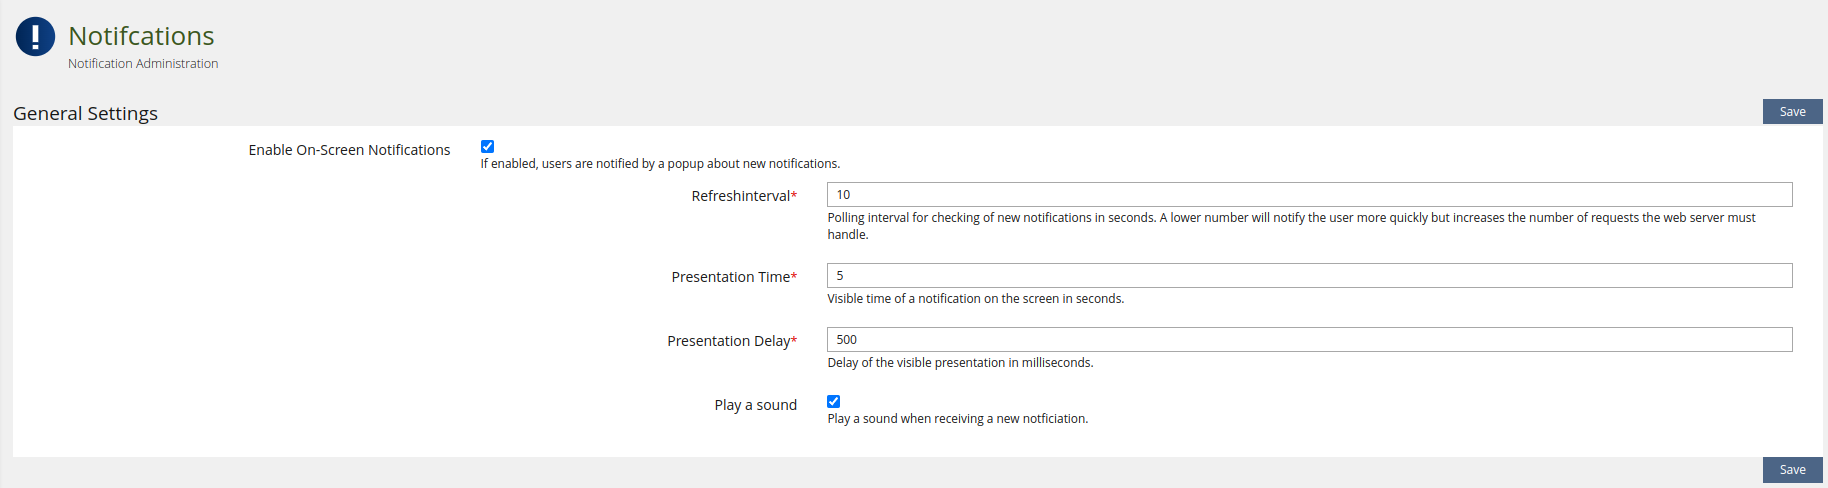
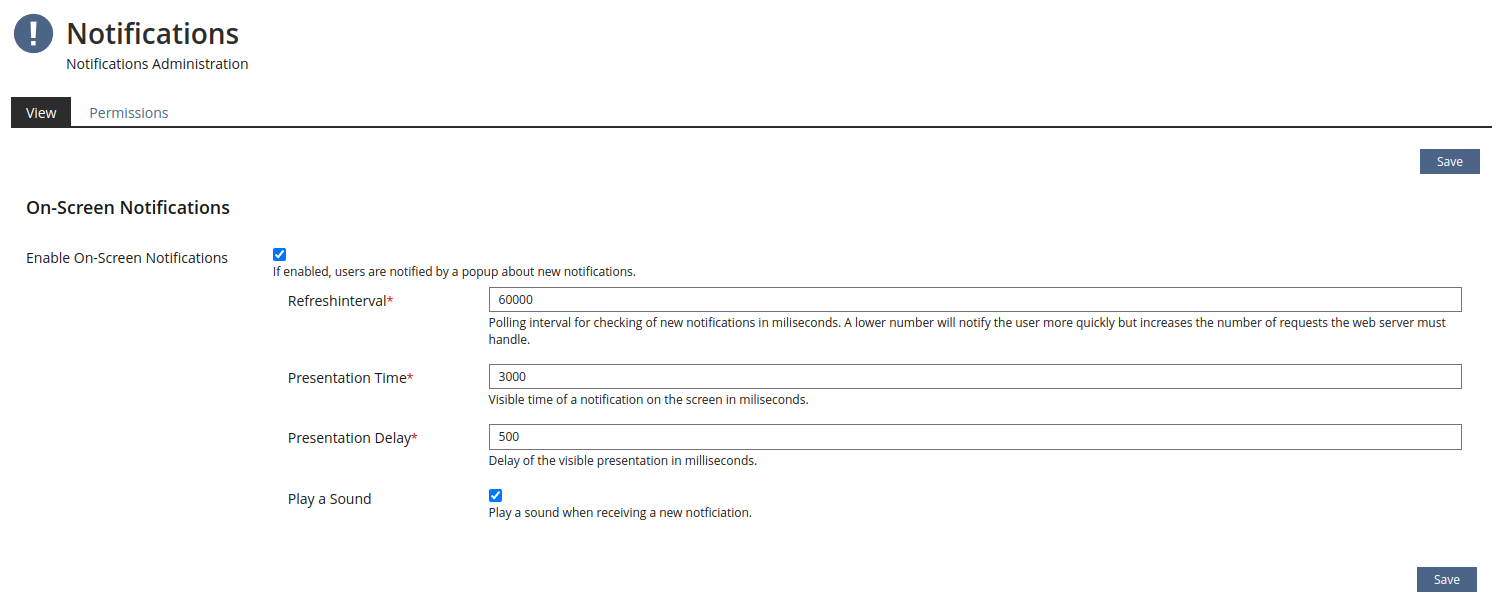
refacotered readme

diff --git a/Services/Notifications/README.md b/Services/Notifications/README.md
@@ -5,61 +5,89 @@ The key words “MUST”, “MUST NOT”, “REQUIRED”, “SHALL”, “SHALL 
 interpreted as described in [RFC 2119](https://www.ietf.org/rfc/rfc2119.txt).
 
 **Table of Contents**
-<!-- TOC -->
+* [Setup](#setup)
+  * [Legacy](#legacy)
+* [Configuration](#ilias-configuration)
+  * [General Settings](#general-settings)
+    * [On-Screen Notifications](#on-screen-notifications)
+* [Specifications](#specifications)
+* [Correlations](#correlations)
+  * [GS Toast](#gs-toast)
+* [Bugs](#bugs)
 
-  - [ILIAS configuration](#ilias-configuration)
-    - [General Settings](#general-settings)
-      - [Enable on-screen notifications](#enable-on-screen-notifications)
+## Setup
 
-<!-- /TOC -->
+To provide your own Notifications to the UI, you need a notification provider.
+You can find more information about the structure of such a provider [here](../../src/GlobalScreen/Scope/Notification/README.md).
+This is the easiest way to provide simple notifications.
 
-## ILIAS Configuration
-
-### General Settings
-
-#### Enable on-screen notifications
-
-If enabled, users will be informed by pop-up notifications about certain events.
-
-If disabled, the users will no longer be informed and all existing OSD Notifications will be deleted
-
-![](./docu/images/settings_enable_osd_en.png)
-
-***Note**: Less time allows more timely notifications, but increases server load.*
-
-## Usage
-
-### OSD Notifications
-
-Services can provide notifications to the system by calling;
+If you additionaly want to integrate your notifications into the notification system you can use said system by calling:
 
 ```php
 $DIC->notifications()->system()->toUsers($config, $users, $async);
 ```
 
-with a `ilNotificationsConfig` object, a list of user ids and a flag marking async calls.
+with an `ilNotificationsConfig` object, a list of user ids and a flag to mark async calls.
 
-The config needs a type to be created. This type defines your scope of notifications in which you are able to create and delete
-notifications. You may use an existing type if communicated with the maintainer of its scopes service. If given the type used
-should be identical with the type of your `NotificationProvider`.
+The config needs a type to be created. This type defines your notifications scope in which you are able to create and delete
+notifications. You may use an existing type if communicated with the maintainer of its scope service. If given, the type used should be identical with the type of your `NotificationProvider`.
 
-Furthermore you can set following properties on your notification configuration:
+Furthermore you can set the following properties on your notification configuration:
 
 - `$config->setTitleVar($title)` The title of your Notifications. The passed argument may be an ILIAS language variable.
-    - The notification system tries to translate the title if a respective translation could be determined. Otherwise the passed string will be processed untouched and finally passed to the output channels. If you want to translate it you have the option
-      to add an additional parameter for replaceables and another for a language module to load e.g. `$config->setTitleVar($title, [$username], 'usr')`
-- `$config->setShortDescriptionVar($description)` The description for pace limited presentations (e.g. popups). It translates the same as title.
+  - The notification system will try to translate the title if a respective translation can be determined. Otherwise the passed string will be processed unmodified and finally passed to the output channels. If you want to translate it, you have the option
+    to add an additional parameter for replaceables and another for a language module to load e.g. `$config->setTitleVar($title, [$username], 'usr')`
+- `$config->setShortDescriptionVar($description)` The description for space limited presentations (e.g. popups). It translates the same as title.
 - `$config->setLongDescriptionVar($description)` The full description (not used for OSD). It translates the same as title.
-- `$config->setLinks($links)` A list of `ilNotificationLinks` which will presented as translated links below the description.
-- `$config->setIconPath($path)` The path to the icon for your notifciation type. It will be shown in the indent of the notification or on top of groups of your notification type.
+- `$config->setLinks($links)` A list of `ilNotificationLinks` to display as translated links below the description.
+- `$config->setIconPath($path)` The path to the icon for your notifciation type. It will be displayed in the indent of the notification or at the top of groups of your notification type.
 - `$config->setValidForSeconds($time)` The time will be visible for the user in target presentations.
-- `$config->setIdentification($identification)` A unique `NotificationIdentification` which can be used to identify this specific notification case for future deletions.
-- `$config->setHandlerParam($handler_name, $params)` Parameters that will be given to the handler for additional informations (not used for OSD).
+- `$config->setIdentification($identification)` A unique `NotificationIdentification` that can be used to identify this particular notification case for future deletions.
+- `$config->setHandlerParam($handler_name, $params)` Parameters to be passed to the handler for additional informations (not used for OSD).
 
-**Important: A notification, which is no longer valid, will not be seen in any UI, but still persists in the database. Therefore all consumers
-of the notification service are obliged to remove their notifications on the appropriate system events (e.g. a notification emitted because of a contact request can be removed if the request is approved) .**
-
-You can remove a notification by using the following functions within the `ilNotificationOSDHandler`:
+You can remove a OSD notification by using the following functions within the `ilNotificationOSDHandler`:
 - `removeOSDNotificationByIdentification($type, $identification)` This removes all notifications within your `$type` which are
   compatible with the `NotificationIdentification` given by `$identification`. Optional you may add a user id as parameter to remove
   this notification only for one user.
+- OSD Notification will be removed automatically when the user clicks on the **X** within the notifications toast.
+
+### Legacy
+
+The use of the Notification Service for On-Screen Notifications with a real-time relevance  is **deprecated**.
+The use of the [Toast](../../src/GlobalScreen/Scope/Toast/README.md) is mandatory.
+
+## Configuration
+
+### General Settings
+
+#### On-Screen Notifications
+
+If enabled, users will be notified of certain events by pop-up notifications in the form of toasts.
+
+Further all numeric values have to be set and the sum of **Presentation Time** and **Presentation Delay** must be less than **Refreshinterval**.
+Otherwise the setting will not be saved and an error will occur.
+The **Play a Sound** will only be effective if it has not been disabled by the user in their personal settings.
+
+![OSD Settings](./docu/images/settings_enable_osd_en.png)
+
+If disabled, all sub.settings will be removed and all existing On-Screen Notifications will be cleared.
+
+## Specifications
+
+This service has no hard technical limit, but should be used with care as an exceptional number of notifications can
+can disrupt the overall user experience of the site and may also exceed server-side limits.
+
+Therefore the use of a reduced **Refreshinterval** is not recommended.
+
+## Correlations
+
+### GS Toast
+
+The Notification correlates partially with the [GS Toast](../../src/GlobalScreen/Scope/Toast/README.md) in purpose and functionality.
+
+- The Notification provides settings for the Component.
+- The Component completely replaces the purpose of real-time relevant notifications of the **On Screen Display Notifications** notification type.
+
+## Bugs
+
+There is no way to identify and delete an OSD Notification for the provider. See the [ROADMAP](ROADMAP.md) for more details on this.

diff --git a/Services/Notifications/ROADMAP.md b/Services/Notifications/ROADMAP.md
@@ -2,29 +2,13 @@
 
 ## Short Term
 
-###Refactoring
+### Refactoring
 
-######PHP 8
-
-For the upcoming ILIAS8 Release it is necessary to guarantee the compatibility for php 8.
-
-######Update of Toast Interface
+#### Update of Toast Interface
 
 `VanishTime` and `DelayTime` should be moved to the interface, if the values could be configured in the respective consumers.
 As long as this is not the case, they keep an implementation detail.
 
-######Prevention of multiclass Files
+## Mid Term
 
-All classes should have their own file similar to their name. Files with multiple classes like [ilNotificationConfig](Services/Notifications/classes/class.ilNotificationConfig.php)
-should be prevented.
-
-###Update off unique Notifications
-
-######paragraph-ui.js
-
-[This](Services/COPage/Editor/js/src/components/paragraph/ui/paragraph-ui.js) uses the OSDNotifications in an uncommon way
-and therefore as to be updated
-
-######page-modifier.js
-
-[This](Services/COPage/Editor/js/src/ui/page-modifier.js) may be deprecated or should be aligned with the new Notifications
+## Long Term
